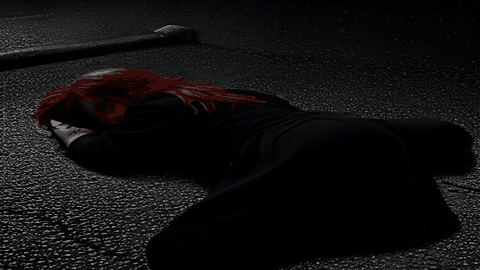
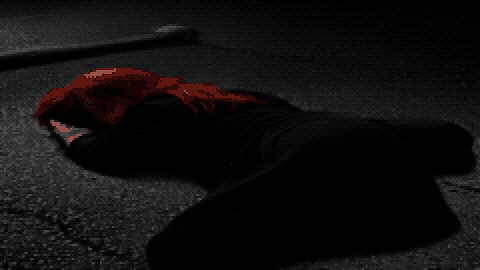
Face-to-face art: proper pixel-art conversion, consistent with the sprites
The AI portraits were only downscaled photos. Convert them like the rest of
the game: flattened shapes, small k-means palette, the sprites' 4x4 ordered
dither, selective dark outlines, 2x2 art pixels. Conversation view now only
moves by whole pixels so blocks never smear. Adds --talk vincent|red.

Claude-Session: https://claude.ai/code/session_01N3XSPxGLPuAzHZPVpyahxE

diff --git a/tools/ai_art.py b/tools/ai_art.py
@@ -4,7 +4,9 @@
 Images come from pollinations.ai (free, no key). The raw download is cached in
 assets/ai_src/ so runs are reproducible; each image is then cropped (removing
 the service watermark), graded dim and pixelated to the game's 480x270
-resolution with a limited palette.
+resolution as pixel art: shapes flattened, a small k-means palette, the same
+4x4 ordered dither as the sprites, dark selective outlines, and 2x2 art
+pixels (240x135 upscaled with nearest neighbour).
 
 Usage:
   python3 tools/ai_art.py                 # fetch missing + rebuild all
@@ -72,18 +74,56 @@ def fetch(prompt, seed, path, tries=4):
     raise SystemExit('could not fetch ' + path)
 
 
-def pixelate(src, dst, colors=56, gamma=1.15):
+BAYER4 = (np.array([[0, 8, 2, 10], [12, 4, 14, 6], [3, 11, 1, 9], [15, 7, 13, 5]], np.float32) + 0.5) / 16.0 - 0.5
+
+
+def kmeans_palette(px, k, iters=12, seed=0):
+    """Small k-means in RGB (no sklearn needed)."""
+    rng = np.random.default_rng(seed)
+    pts = px[rng.choice(len(px), min(len(px), 20000), replace=False)]
+    # init: spread over luminance so darks and lights both get colours
+    lum = pts @ np.array([0.299, 0.587, 0.114], np.float32)
+    order = np.argsort(lum)
+    cent = pts[order[np.linspace(0, len(pts) - 1, k).astype(int)]].copy()
+    for _ in range(iters):
+        d = ((pts[:, None, :] - cent[None, :, :]) ** 2).sum(-1)
+        lab = d.argmin(1)
+        for i in range(k):
+            m = lab == i
+            if m.any():
+                cent[i] = pts[m].mean(0)
+    return cent
+
+
+def pixelate(src, dst, colors=28, gamma=1.15, scale=2, spread=0.035):
+    """Photo -> pixel art: flatten shapes, small palette, ordered dither, outlines."""
     im = Image.open(src).convert('RGB')
     w, h = im.size
     im = im.crop((0, 0, w, int(h * 0.9)))                 # watermark lives in the bottom strip
-    im = im.resize((W, H), Image.LANCZOS)
-    im = ImageEnhance.Color(im).enhance(0.8)
+    pw, ph = W // scale, H // scale
+    # flatten photographic texture into shapes before shrinking
+    im = im.filter(ImageFilter.MedianFilter(5))
+    im = im.resize((pw, ph), Image.BOX)
+    im = ImageEnhance.Color(im).enhance(0.85)
+    im = ImageEnhance.Contrast(im).enhance(1.12)
     a = np.asarray(im).astype(np.float32) / 255.0
-    a = a ** gamma                                          # dimmer mid-tones
-    a = np.clip(a * 1.04, 0, 1)
-    im = Image.fromarray((a * 255 + 0.5).astype(np.uint8))
-    im = im.filter(ImageFilter.UnsharpMask(radius=1, percent=60, threshold=2))
-    im = im.quantize(colors=colors, method=Image.Quantize.MEDIANCUT, dither=Image.Dither.FLOYDSTEINBERG).convert('RGB')
+    a = np.clip(a ** gamma, 0, 1)
+    pal = kmeans_palette(a.reshape(-1, 3), colors)
+    # ordered (Bayer) dither against the palette, same pattern the sprites use
+    yy, xx = np.mgrid[0:ph, 0:pw]
+    t = BAYER4[yy % 4, xx % 4][..., None] * spread
+    d = (((a + t)[:, :, None, :] - pal[None, None, :, :]) ** 2).sum(-1)
+    idx = d.argmin(-1)
+    out = pal[idx]
+    # selective outline: darken pixels on strong luminance edges
+    lum = out @ np.array([0.299, 0.587, 0.114], np.float32)
+    gy, gx = np.gradient(lum)
+    edge = np.hypot(gx, gy) > 0.13
+    darker = lum < np.maximum(np.roll(lum, 1, 0), np.roll(lum, 1, 1))
+    darkest = pal[np.argmin(pal @ np.array([0.299, 0.587, 0.114], np.float32))]
+    out[edge & darker] = out[edge & darker] * 0.45 + darkest * 0.55
+    im = Image.fromarray((np.clip(out, 0, 1) * 255 + 0.5).astype(np.uint8))
+    im = im.resize((W, H), Image.NEAREST)
     os.makedirs(os.path.dirname(dst), exist_ok=True)
     im.save(dst, optimize=True)
 
@@ -96,7 +136,7 @@ def build(names, refetch=False):
         if refetch or not os.path.exists(raw):
             print('fetching', name)
             fetch(e['prompt'], e['seed'], raw)
-        pixelate(raw, os.path.join(OUT, name + '.png'), e['colors'], e['gamma'])
+        pixelate(raw, os.path.join(OUT, name + '.png'), e.get('palette', 28), e['gamma'])
         print('built', name)
 
 
